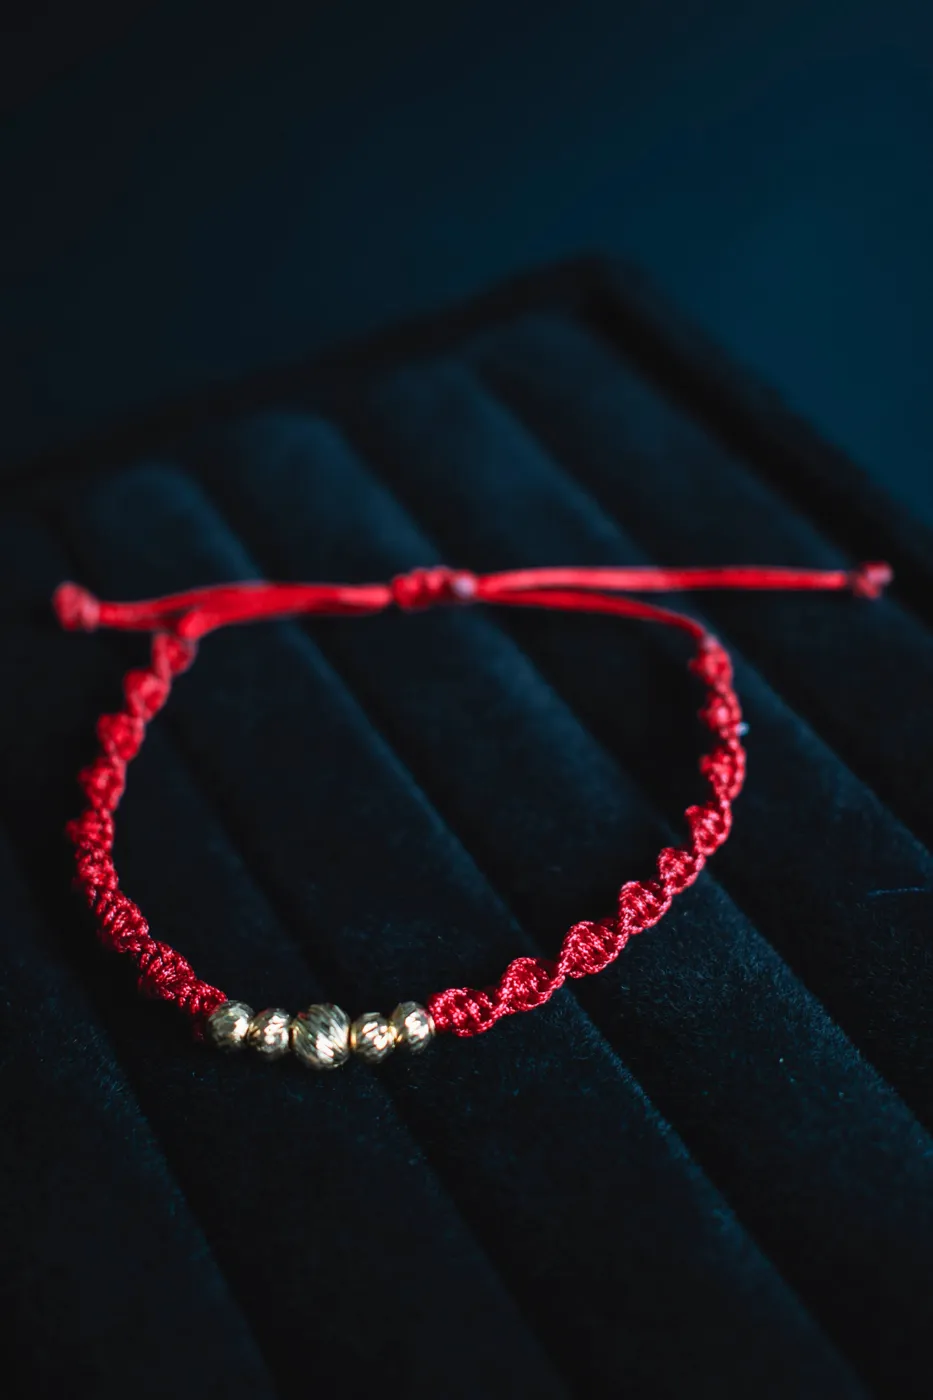
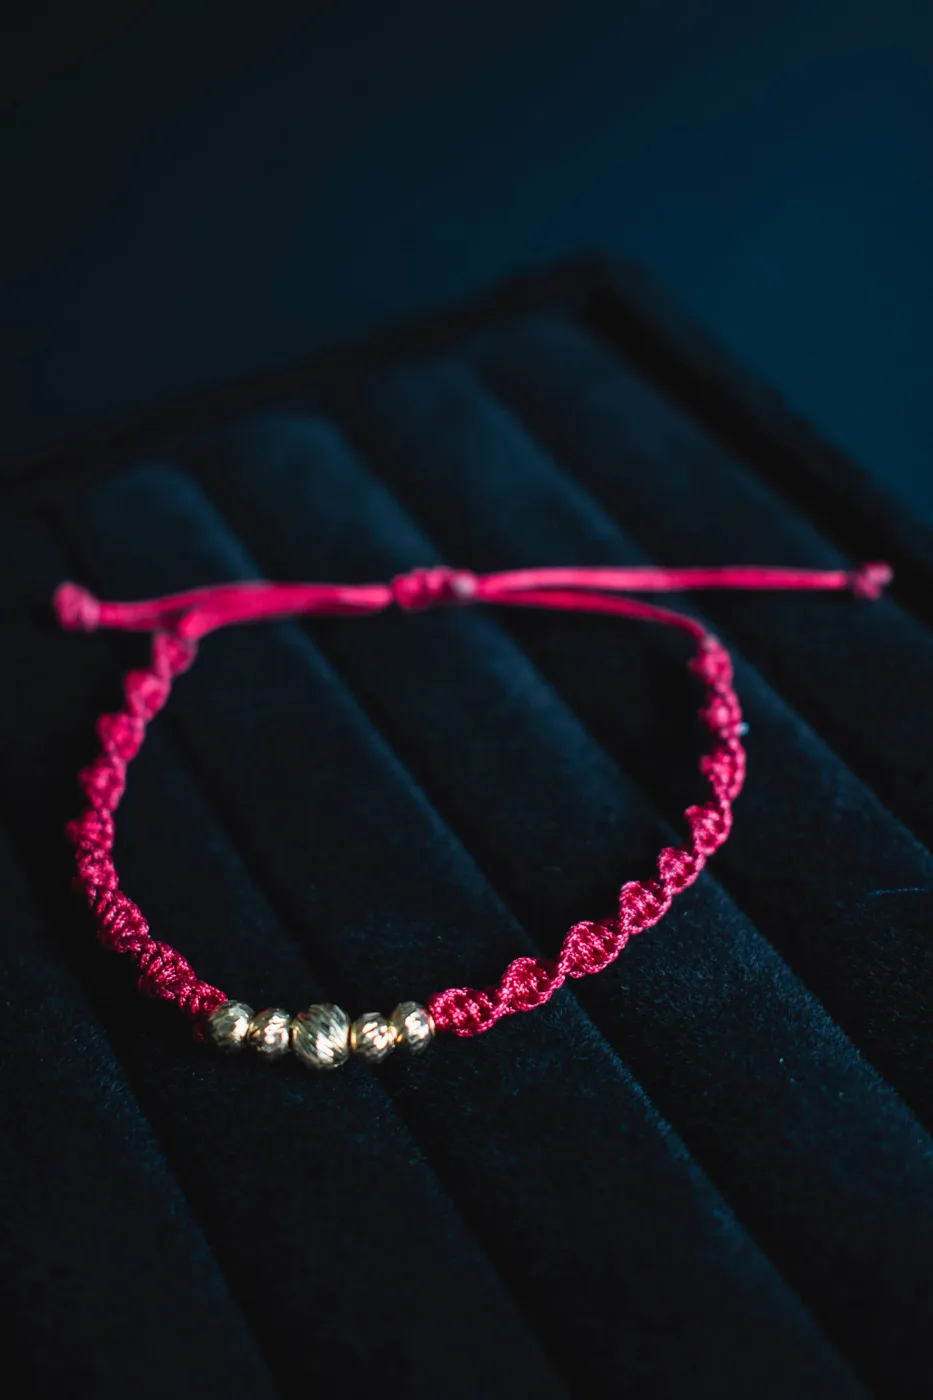
Carmín: fotos originales y descripción en color vino
Claude-Session: https://claude.ai/code/session_01VxAyZCstGyEpo6zTFDEtnV

Changed region(s): [[0.0622, 0.3993, 0.9636, 0.6757], [0.4662, 0.4607, 0.8081, 0.7371], [0.1554, 0.6757, 0.2176, 0.7064]]

diff --git a/lib/products.ts b/lib/products.ts
@@ -36,7 +36,7 @@ const RAW_PRODUCTS: Product[] = [
   { id: "refugio", tier: "SIGNATURE", religious: true, name: "Refugio", priceNum: 359900, special: true, dije: true, desc: "Cordón rojo con medalla de San Benito.", longDesc: "Pieza icónica: cordón tejido en rojo con balines de oro 18k y medalla de San Benito en Oro 18K. Protección que se lleva puesta, todos los días.", gallery: [auraGeneral, auraDetalle] },
   { id: "gracia", tier: "SIGNATURE", religious: true, name: "Gracia", priceNum: 495900, soldOut: true, desc: "Cuarzo morado con cruz de oro.", longDesc: "Cuentas de cuarzo morado con una cruz de oro, hecha a mano, para llevar sola o en capas.", gallery: ["/images/pulso-1.webp", "/images/pulso-2.webp", "/images/pulso-3.webp"] },
   { id: "milagrosa", tier: "SIGNATURE", religious: true, name: "Milagrosa", priceNum: 429900, desc: "Cordón rojo con medalla milagrosa.", longDesc: "Cordón tejido a mano en rojo con la medalla milagrosa en oro 18k. Para llevar la fe puesta, todos los días.", gallery: ["/images/vertice-1.webp", "/images/vertice-2.webp", "/images/vertice-3.webp"] },
-  { id: "carmin", tier: "SIGNATURE", name: "Carmín", priceNum: 269900, desc: "Espiral roja con cinco balines de oro.", longDesc: "Tejido en espiral a mano, en un rojo intenso, con cinco balines de oro 18k diamantados que crecen hacia el centro. Una pieza de carácter, hecha para llamar la atención sin esfuerzo.", gallery: ["/images/burdeos-1.webp", "/images/burdeos-2.webp", "/images/burdeos-3.webp"] },
+  { id: "carmin", tier: "SIGNATURE", name: "Carmín", priceNum: 269900, desc: "Espiral color vino con cinco balines de oro.", longDesc: "Tejido en espiral a mano, en un profundo color vino, con cinco balines de oro 18k diamantados que crecen hacia el centro. Una pieza de carácter, hecha para llamar la atención sin esfuerzo.", gallery: ["/images/burdeos-1.webp", "/images/burdeos-2.webp", "/images/burdeos-3.webp"] },
   { id: "destello", tier: "SIGNATURE", name: "Destello", priceNum: 309900, special: true, dije: true, desc: "Cordón crema con dije hexagonal de oro.", longDesc: "Cordón crema tejido a mano con un dije hexagonal en oro 18k, grabado con rayos que capturan la luz. Delicada y luminosa, para llevar sola o en capas.", gallery: ["/images/rombo-1.webp", "/images/rombo-2.webp"] },
   { id: "latido", tier: "SIGNATURE", name: "Latido", priceNum: 384900, special: true, dije: true, desc: "Cordón rojo con dije de corazón en oro.", longDesc: "Cordón rojo tejido a mano con un dije de corazón en oro 18k y detalles de balines. Un regalo con significado, para llevar cerca todos los días.", gallery: ["/images/latido-1.webp", "/images/latido-2.webp", "/images/latido-3.webp"] },
   { id: "eterna", tier: "SIGNATURE", name: "Eterna", priceNum: 299900, desc: "Oro 18k que acompaña sin caducar.", longDesc: "Tejida a mano en oro 18k, de líneas limpias y presencia serena. Una pieza para quedarse contigo mucho tiempo.", gallery: ["/images/eterna-1.webp"] },
